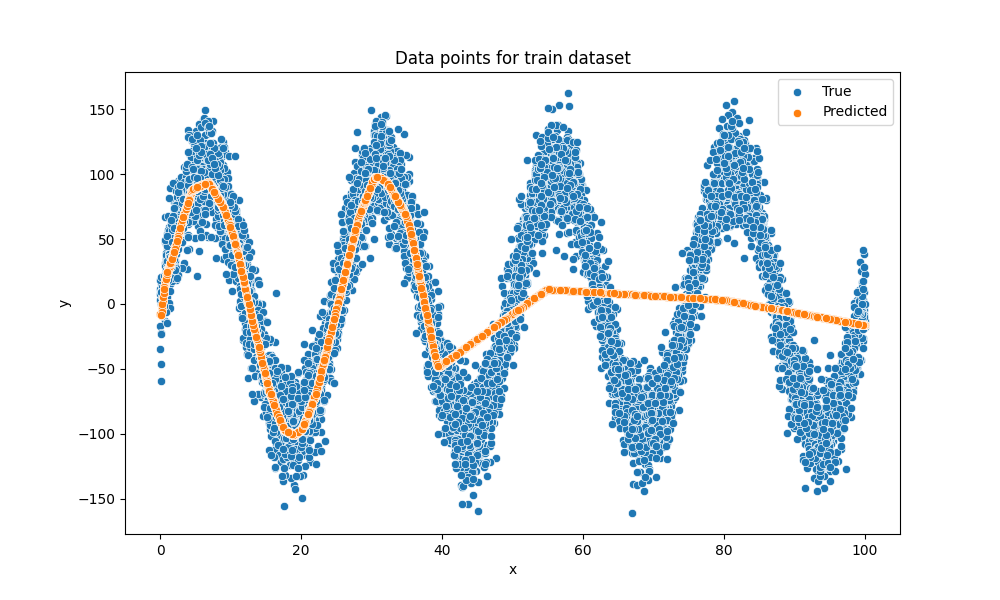
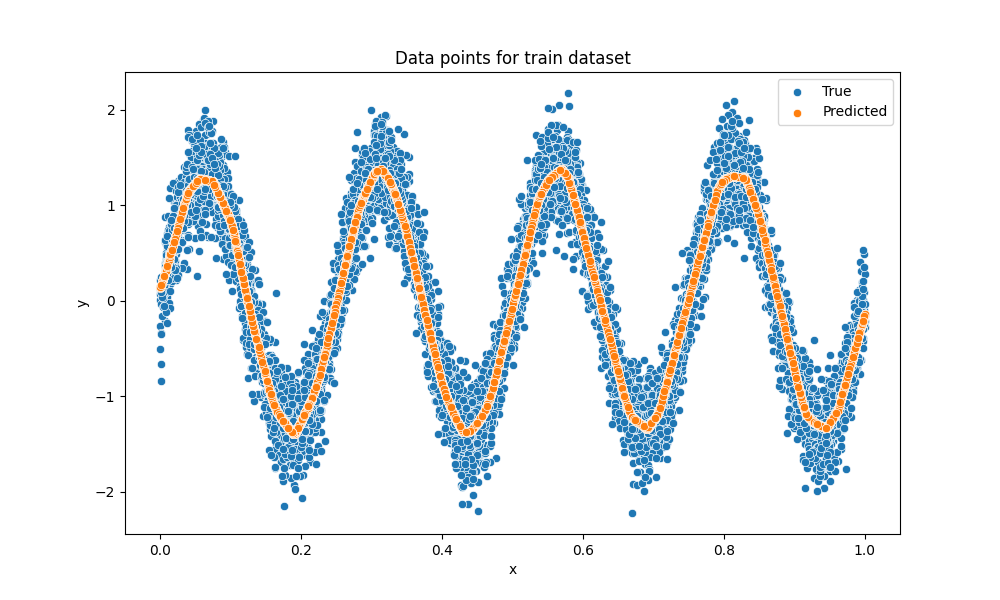
pl2_fintrain

diff --git a/src/exercise_03/dataset.py b/src/exercise_03/dataset.py
@@ -11,18 +11,39 @@ from torch.utils.data import Dataset
 
 
 class NoisyRegressionDataset(Dataset):
-    def __init__(self, noise_std=20, size=100, seed=42):
+    def __init__(self, noise_std=20, size=100, seed=42, normalize_x=False, normalize_y=False):
         np.random.seed(seed)
-        self.x = np.random.uniform(0, 100, size=(size,))
-        self.delta = np.random.normal(0, noise_std, size=(size,))
-        self.y = 100 * np.sin(8 * numpy.pi * self.x / 100) + 2 + self.delta
+        x = np.random.uniform(0, 100, size=(size,))
+        delta = np.random.normal(0, noise_std, size=(size,))
+        y = 100 * np.sin(8 * numpy.pi * x / 100) + 2 + delta
+
+        # Keep raw values for visualization or inverse transforms.
+        self.x_raw = x
+        self.y_raw = y
+
         # Create a DataFrame for visualization
-        df = pd.DataFrame(data=np.array([self.x, self.y]).transpose(), columns=["x", "y"])
+        df = pd.DataFrame(data=np.array([x, y]).transpose(), columns=["x", "y"])
         self.df = df
 
+        if normalize_x:
+            self.x_min = float(x.min())
+            self.x_max = float(x.max())
+            x = (x - self.x_min) / (self.x_max - self.x_min + 1e-8)
+        else:
+            self.x_min = None
+            self.x_max = None
+
+        if normalize_y:
+            self.y_mean = float(y.mean())
+            self.y_std = float(y.std())
+            y = (y - self.y_mean) / (self.y_std + 1e-8)
+        else:
+            self.y_mean = None
+            self.y_std = None
+
         # Reshape for PyTorch compatibility
-        self.x = self.x.reshape((-1, 1))
-        self.y = self.y.reshape((-1, 1))
+        self.x = x.reshape((-1, 1))
+        self.y = y.reshape((-1, 1))
 
     def plot(self, filepath):
         ax = sns.scatterplot(self.df, x="x", y="y")
@@ -40,7 +61,7 @@ class NoisyRegressionDataset(Dataset):
 
 
 if __name__ == "__main__":
-    output_folder = Path(__file__).parent.parent.parent / "outs" / Path(__file__).parent.name 
+    output_folder = Path(__file__).parent.parent.parent / "outs" / Path(__file__).parent.name
     output_folder.mkdir(exist_ok=True, parents=True)
 
     dataset = NoisyRegressionDataset()

diff --git a/src/exercise_03/train.py b/src/exercise_03/train.py
@@ -27,7 +27,7 @@ def get_device(force: str = "auto") -> torch.device:
 
 def train_model(output_folder: Path, device: torch.device):
     # Create an instance of the dataset
-    dataset = NoisyRegressionDataset(size=10000)
+    dataset = NoisyRegressionDataset(size=10000, normalize_x=True, normalize_y=True)
 
     # Split the dataset into train, validation, and test sets
     train_size = int(0.7 * len(dataset))
@@ -50,7 +50,7 @@ def train_model(output_folder: Path, device: torch.device):
     optimizer = optim.AdamW(model.parameters(), lr=0.0001)
 
     # Training loop with validation and saving best weights
-    num_epochs = 1000
+    num_epochs = 100
     best_val_loss = float("inf")
     best_model_path = output_folder / "best_model.pth"
 

diff --git a/src/exercise_03/evaluate.py b/src/exercise_03/evaluate.py
@@ -98,7 +98,7 @@ if __name__ == "__main__":
     # Set the seed for reproducibility
     torch.manual_seed(42)
     # Create an instance of the dataset
-    dataset = NoisyRegressionDataset(size=10000)
+    dataset = NoisyRegressionDataset(size=10000, normalize_x=True, normalize_y=True)
 
     # Split the dataset into train, validation, and test sets
     train_size = int(0.7 * len(dataset))
